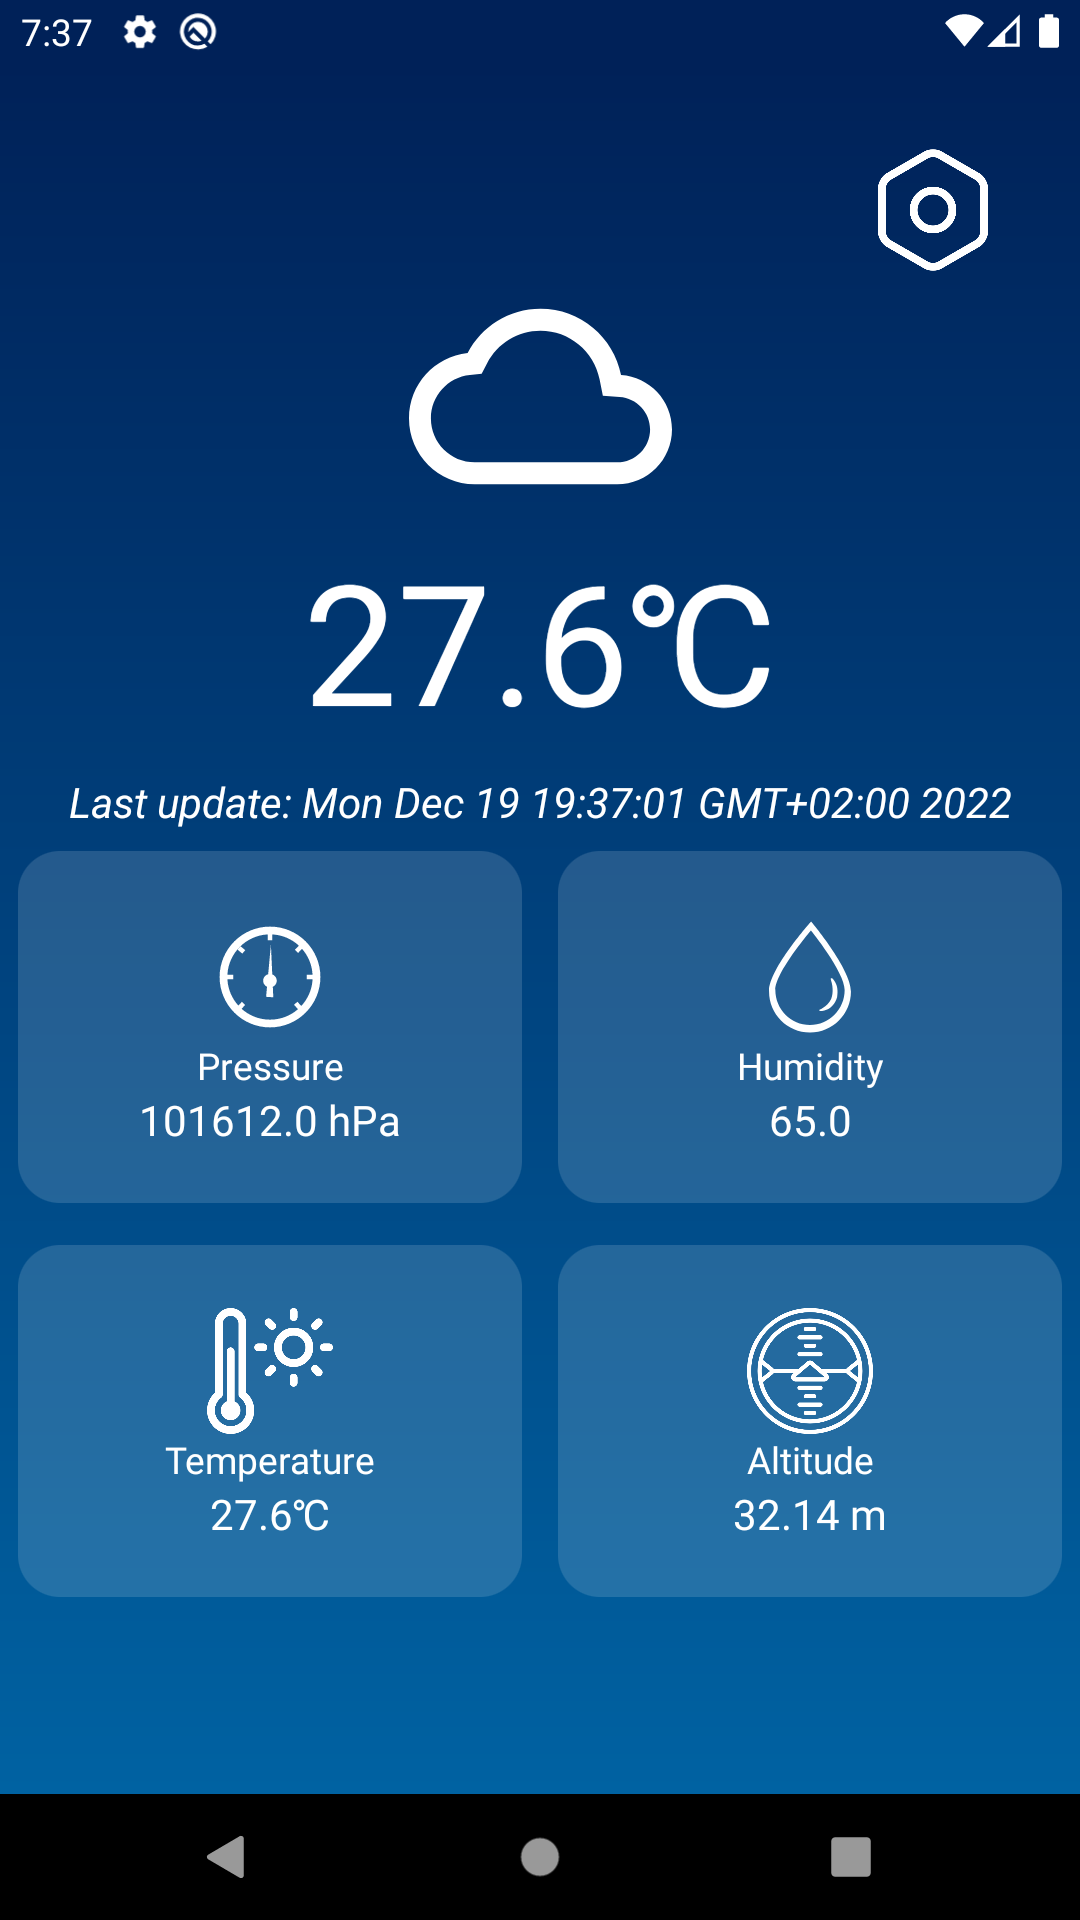
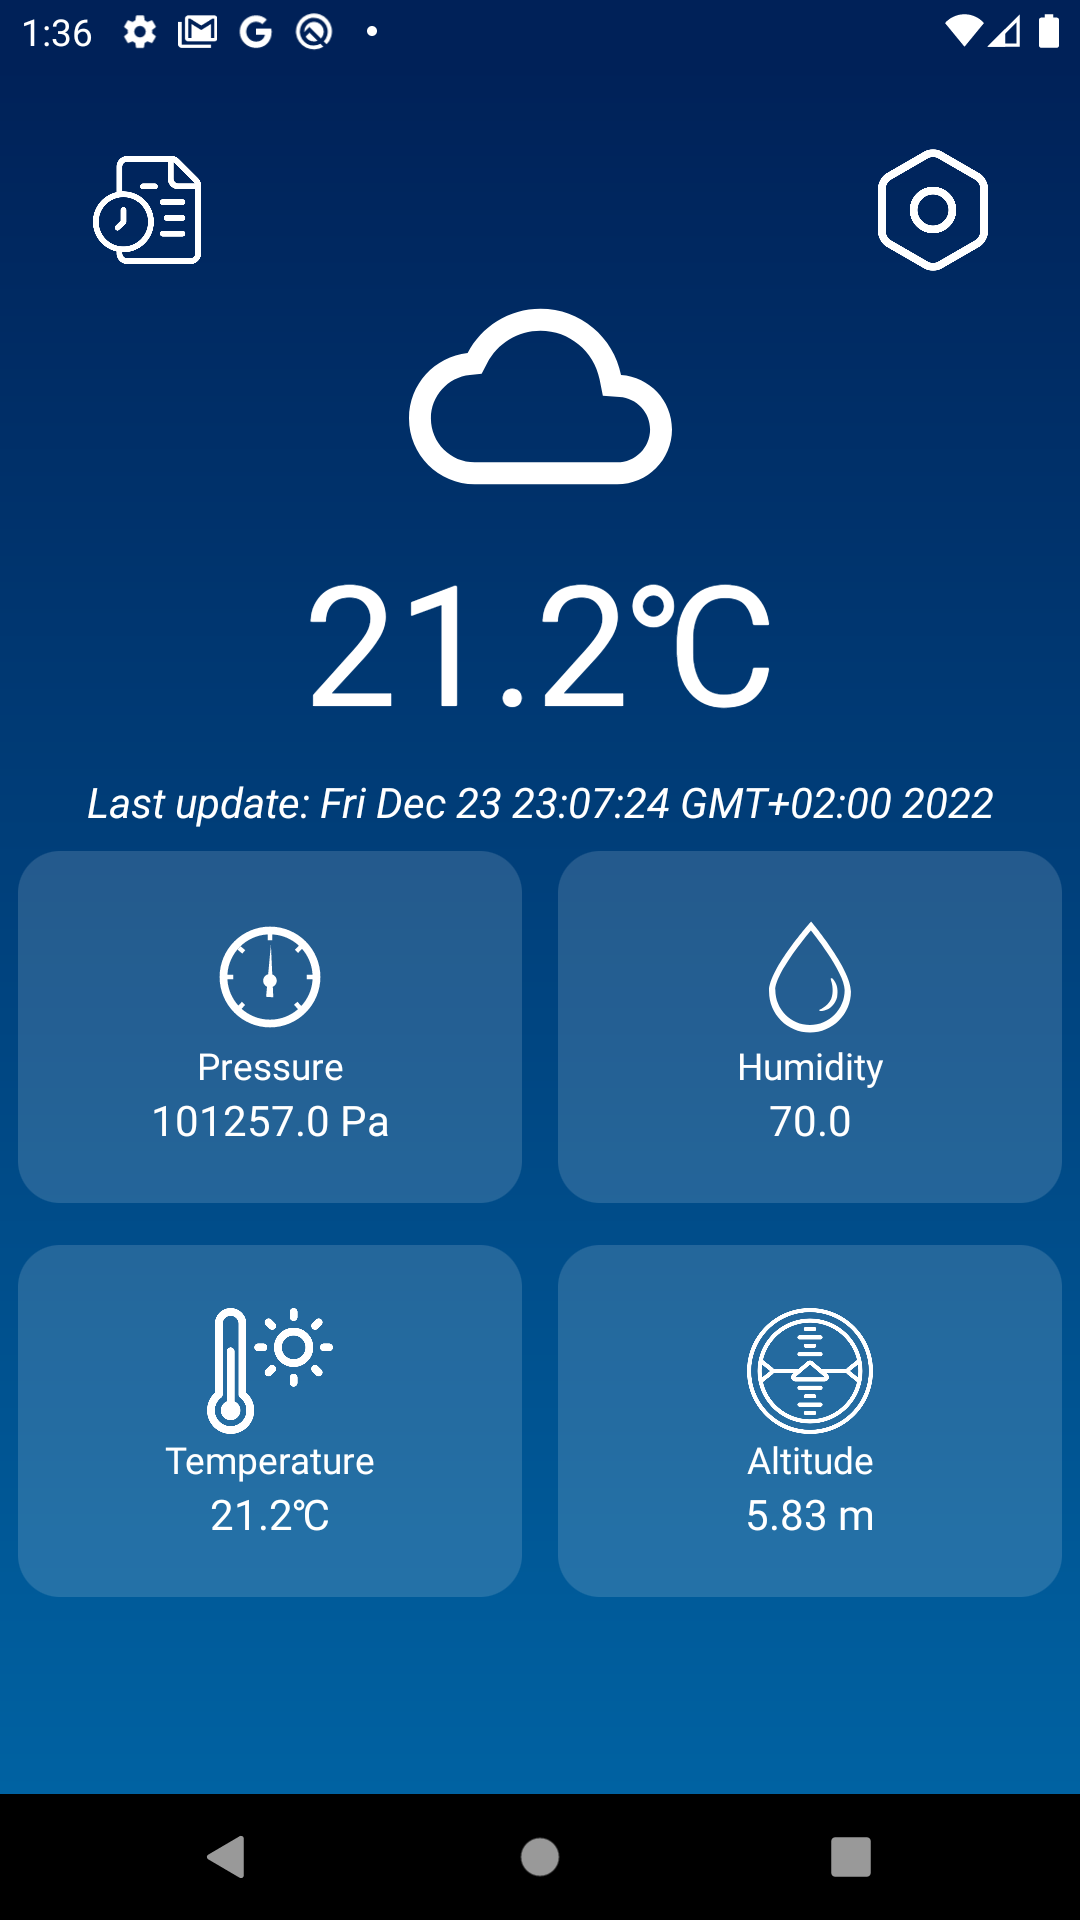
:memo: Updating screenshots & Adding hardware repo

diff --git a/README.md b/README.md
@@ -8,24 +8,28 @@ Application to read data from a weather station and send it to a firebase real-t
 display it on an android app, with thresholds and alerts.
 
 ## Hardware
-
+[Weather Server Station](https://github.com/bavllymagid/weather_server_station)
 - ESP32
 - DHT22 for measuring temperature and humidity
 - BMP280 for measuring pressure and altitude
 
+
 ## Screenshots
 
-Normal Display
 
-![Normal Display](/Images/normal.png)
-
-
-Alert Display when temperature is high
-
-
-![Alert Display](/Images/alert.png)
-
-
-Settings
-
-![Settings](/Images/settings.png)
+<figure style = "display:inline-block">
+    <img src="Images/normal.png" height = "800" width = "400" />
+    <figcaption align = "center">Home</figcaption>
+</figure>
+<figure style = "display:inline-block">
+    <img src="Images/alert.png" height = "800" width = "400" />
+    <figcaption align = "center">Status Alert</figcaption>
+</figure>
+<figure style = "display:inline-block">
+    <img src="Images/settings.png" height = "800" width = "400" />
+    <figcaption align = "center">User Settings</figcaption>
+</figure>
+<figure style = "display:inline-block">
+    <img src="Images/log.png" height = "800" width = "400" />
+    <figcaption align = "center">Readings Log</figcaption>
+</figure>
